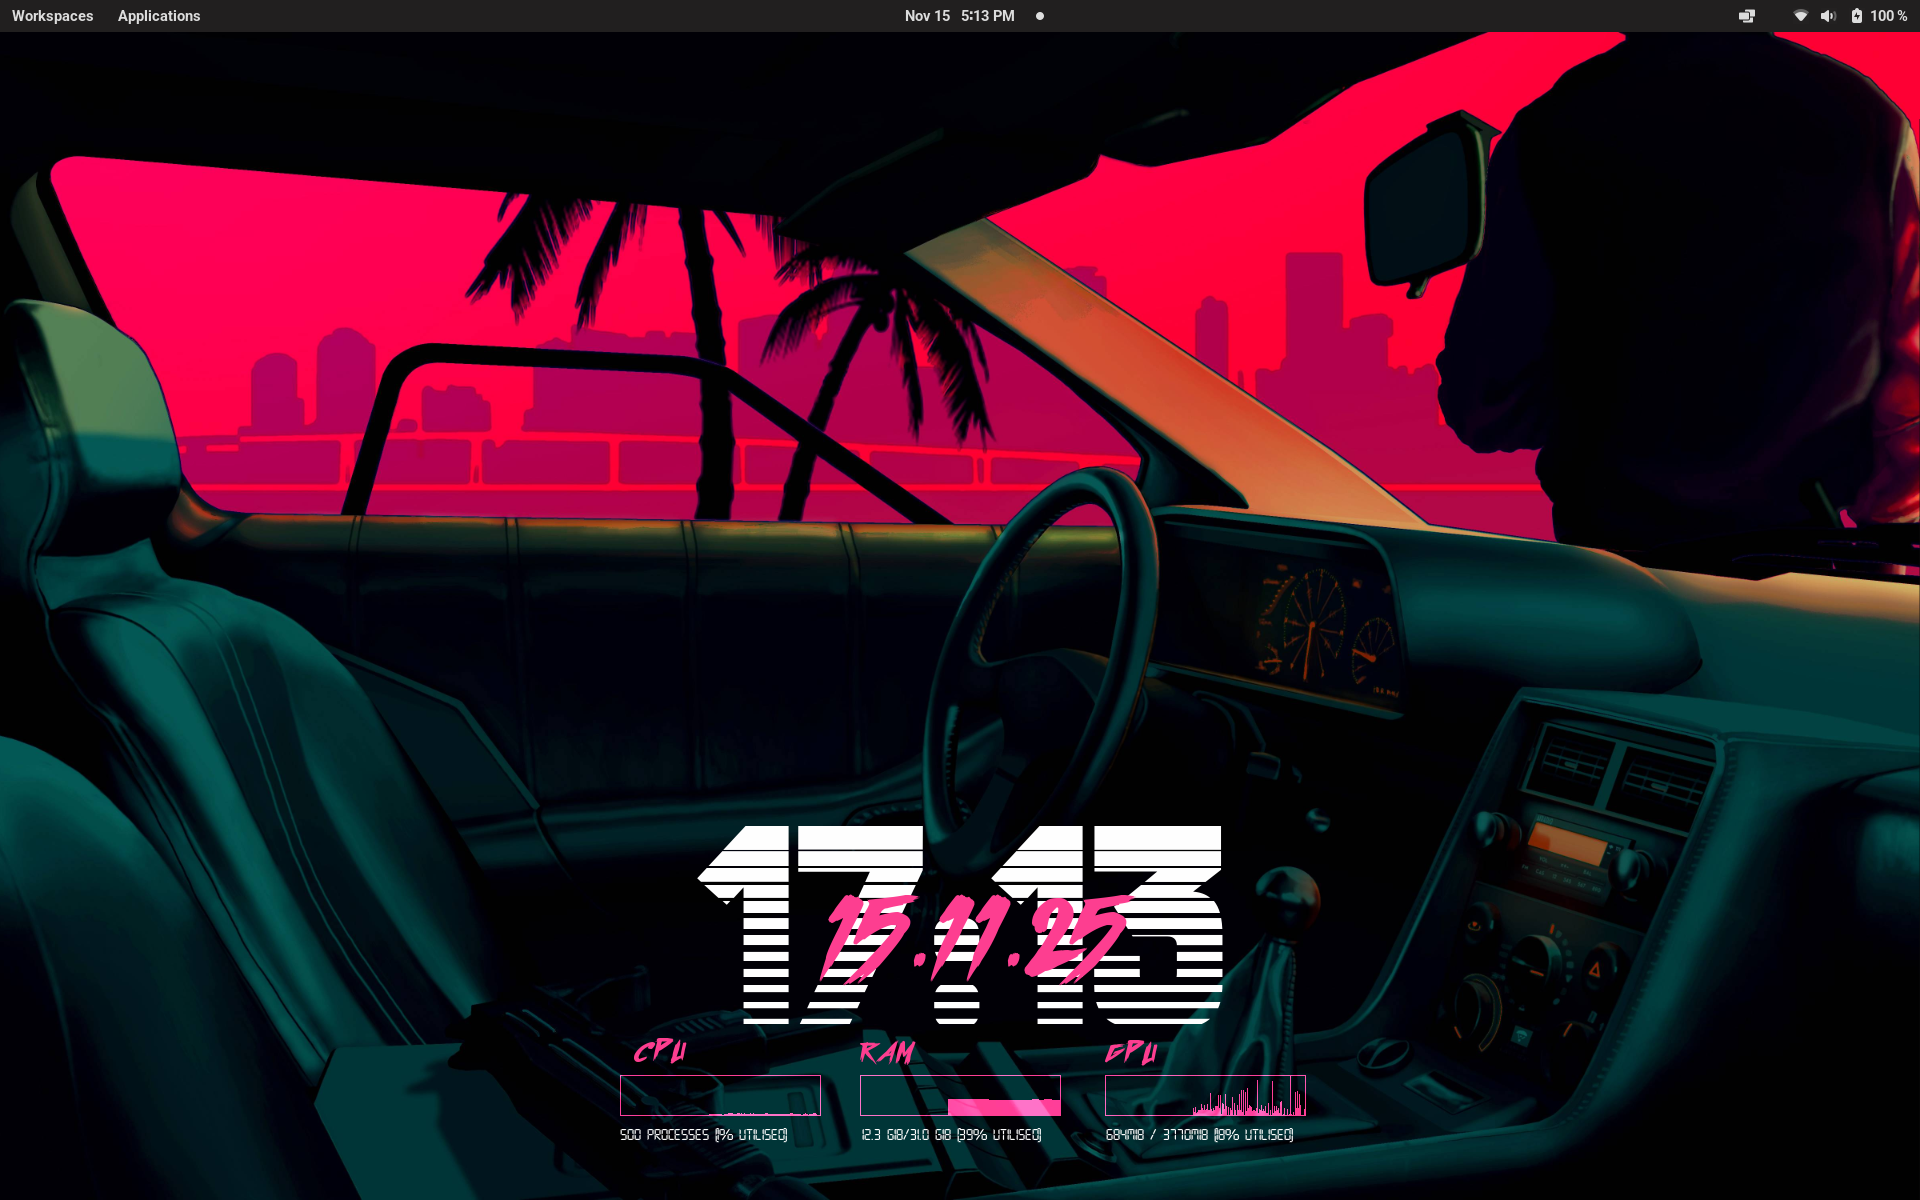
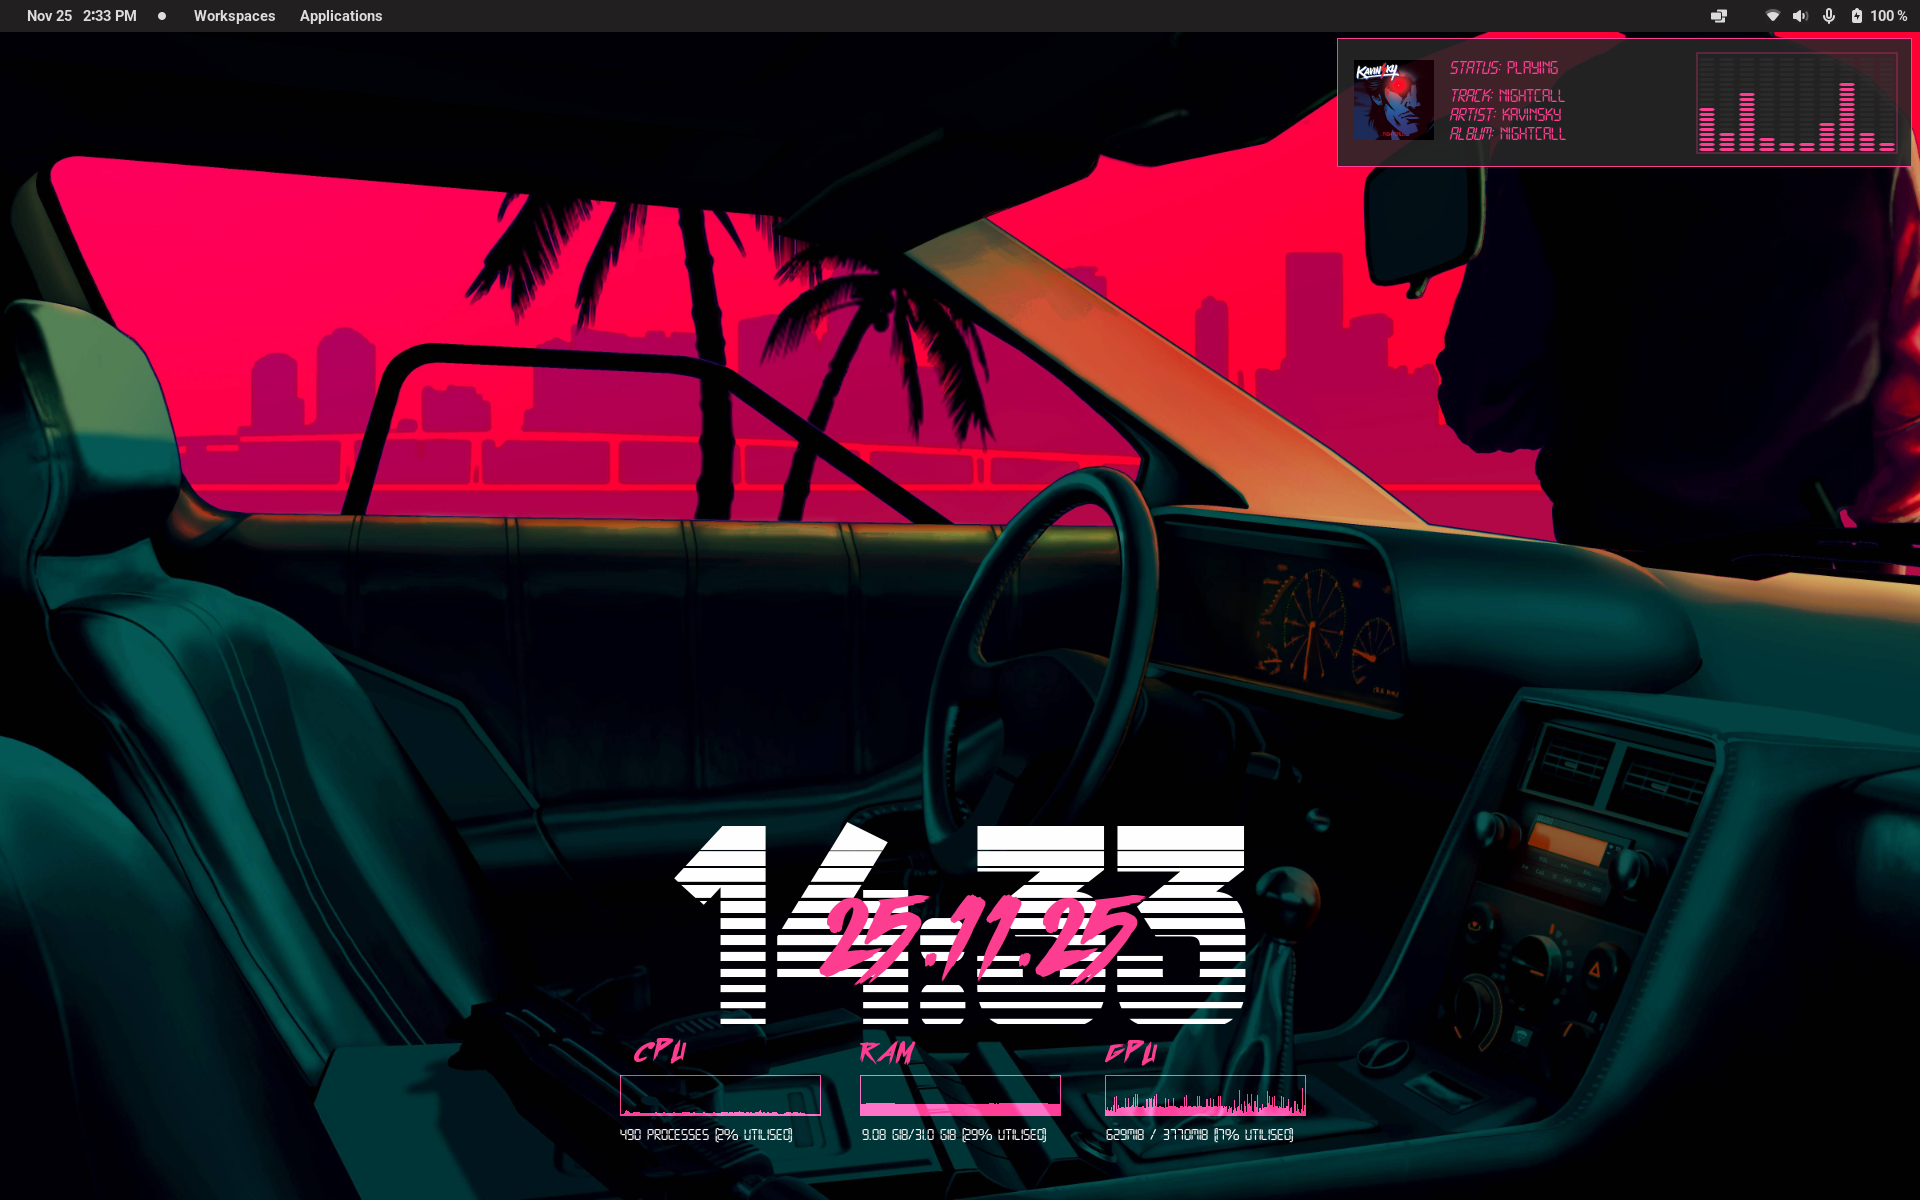
Outrun theme configs

diff --git a/outrun/README.md b/outrun/README.md
@@ -1,12 +1,27 @@
 # Outrun
 
-A Retro 80s theme
+A Retro 80's influenced theme
 
-It displays the main info on RAM, CPU and GPU.
+It displays the main info on RAM, CPU and GPU. You can always extend this to add the details you want.
 
-## Install
+There is also a widget which displays the currently playing track information, as well as an audio visualizer. I have really only tested with Spotify, though as it uses `playerctl` which itself utilises the MPRIS interface, it should ideally work with others. Maybe the artwork might not look great.
 
-- Install necessary fonts from the `fonts` directory.
+## Pre-requisites
+
+- Assumes you already have `conky` and `cairo` packages installed
+- Install necessary fonts from the `fonts/` directory.
+- Install `playerctl`, instructions [from here](https://github.com/altdesktop/playerctl).
+- Install `cava` (relied upon by the audio visualiser), instructions [from here](https://github.com/karlstav/cava).
+
+## Installation
+
+- Download git repo, and navigate to `outrun` directory. Ensure `start.sh` is executable.
+- You can place the path to the `start.sh` script in your startup applications for example
+
+## Configuration
+
+- You can change the colours etc.
+- For the audio visualiser, there are two styles, `solid` or `lcd`. See the theme example for a view of `lcd` style.
 
 ## Example
 
